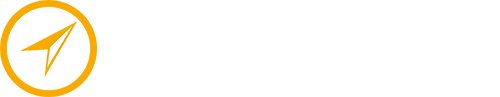
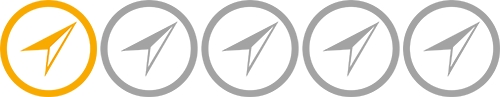
index done minus tags

Changed region(s): [[0.18, 0.0, 1.0, 1.0]]

diff --git a/frontend/src/components/QuestIndex/QuestCard.jsx b/frontend/src/components/QuestIndex/QuestCard.jsx
@@ -1,17 +1,22 @@
+import StarRating from "./StarRating"
+import './QuestIndex.css'
 
-
-export default function QuestCard({quest}){
+export default function QuestCard({quest, reviews}){
     
+    const questReviews = Object.values(reviews).filter((review)=>review.quest === quest._id)
 
     return(
-        <div classname="quest-card">
-            <img></img>
+        <div className="quest-card">
+            <img className="quest-start-image" src={quest.imageUrls? quest.imageUrls[0] : ""} />
             <div className="quest-info">
-                <h1 className="quest-title"></h1>
-                <img src={`../../../../public/assets/stars/${starRating}`} alt="" />
+                <h1 className="quest-title">{quest.title}</h1>
+                <label><p>rating:</p>
+                <StarRating questId={quest._id} questReviews={questReviews}/>
+                </label>
+                <label><p>tags:</p>
+                <p>tags go here</p>
+                </label>
             </div>
         </div>
     )
-    
-
 }

diff --git a/frontend/src/components/QuestIndex/QuestIndex.jsx b/frontend/src/components/QuestIndex/QuestIndex.jsx
@@ -1,0 +1,24 @@
+import { useSelector } from "react-redux";
+import { useDispatch } from "react-redux";
+import { useEffect } from "react";
+import { getAllQuests } from "../../store/quests";
+import QuestCard from "./QuestCard";
+import './QuestIndex.css'
+import { Link } from "react-router-dom";
+import { getAllReviews } from "../../store/reviews";
+
+
+export default function QuestIndex(){
+    const dispatch= useDispatch()
+    useEffect(()=>{
+        dispatch(getAllQuests())
+        dispatch(getAllReviews())
+    },[])
+    const quests = useSelector(state=>state.quests)
+    const reviews = useSelector(state=>state.reviews)
+    return(
+        <div className="card-column">
+            {Object.values(quests)?.map((quest, i)=><Link key={i} to={`/quests/${quest._id}`}><QuestCard quest={quest} reviews={reviews}/></Link>)}
+        </div>
+    )
+}

diff --git a/frontend/src/components/HomePage/index.js b/frontend/src/components/HomePage/index.js
@@ -1,17 +1,19 @@
 import React from 'react';
 import "./HomePage.css"
 import QuestMap from '../Map';
+import QuestIndex from '../QuestIndex/QuestIndex';
+import { useSelector } from 'react-redux';
 
 const HomePage = () => {
+  const mapstyle={ height: 'calc(100vh - 80px)', width: '100%' }
+  const quests = useSelector(state=>state.quests)
     return (
-      <>
-      <div className="homepage-left">
-        <QuestMap />
+      <div className="home-flex">
+        <div className="homepage-left">
+          <QuestMap quests={quests} style={mapstyle}/>
+        </div>
+          <QuestIndex />
       </div>
-      <div className="homepage-right">
-        <h1>This is where the quest list will go</h1>
-      </div>
-      </>
     );
   }
   

diff --git a/frontend/src/components/QuestIndex/QuestIndex.css b/frontend/src/components/QuestIndex/QuestIndex.css
@@ -1,0 +1,35 @@
+img.star-rating{
+    height: 20px;
+    margin: 5px 0px;
+}
+div.quest-card{
+    padding: 20px;
+    background-color: white;
+    border-radius: 7px;
+    width: 85%;
+    margin: 20px;
+    display: flex;
+    justify-content: flex-start;
+    align-items: flex-start;
+}
+.home-flex{
+    background-color: var(--offwhite);
+}
+h1.quest-title{
+    font-size: 27px;
+    font-weight: bold;
+    margin-top: 0;
+    margin-bottom: 10px;
+}
+.card-column{
+    width: 50%;
+    height: calc(100vh - 80px);
+    overflow-y: scroll;
+}
+.quest-start-image{
+    width: 100px;
+    height: 100px;
+    object-fit: cover;
+    border-radius: 10px;
+    margin-right: 20px;
+}

diff --git a/frontend/src/components/QuestIndex/StarRating.jsx b/frontend/src/components/QuestIndex/StarRating.jsx
@@ -1,0 +1,16 @@
+import { useSelector } from "react-redux";
+import { useDispatch } from "react-redux";
+import { useEffect } from "react";
+import { getQuestReviews } from "../../store/quests";
+import './QuestIndex.css'
+
+export default function StarRating({questReviews}){
+
+    let ratingtotal = 0
+    questReviews.forEach((review)=>(ratingtotal += review.rating))
+    const stars = Math.floor(ratingtotal/questReviews.length)
+
+    return(
+        <img className="star-rating"src={`./../../../assets/stars/${stars}.png`} alt={`${stars} star rating`} />
+    )
+}

diff --git a/frontend/src/components/Map/index.js b/frontend/src/components/Map/index.js
@@ -17,7 +17,7 @@ const QuestMap = ({ quests }) => {
   
     return (
     // Important! Always set the container height explicitly
-    <div className="map" style={{ height: '100vh', width: '50%' }}>
+    <div className="map" style={{ height: 'calc(100vh - 80px)', width: '100%' }}>
         <GoogleMapReact
         bootstrapURLKeys={{ key: process.env.REACT_APP_MAPS_API_KEY }}
         defaultCenter={defaultProps.center}

diff --git a/frontend/src/store/quests.js b/frontend/src/store/quests.js
@@ -36,7 +36,7 @@ export const getAllQuests = () => async dispatch => {
     const data = await res.json();
     const quests = {}
     data.forEach ((e) => {
-        quests[e].id = e
+        quests[e._id] = e
     });
     return dispatch(receiveAllQuests(quests));
 };

diff --git a/frontend/src/components/Modals/LoginSignup.css b/frontend/src/components/Modals/LoginSignup.css
@@ -54,7 +54,7 @@ div.page-overlay{
     margin: 10px;
 }
 .option-image:hover{
-    box-shadow: inset 0px 0px 20px rgba(0,0,0,0.5);
+    box-shadow: 0px 0px 20px rgba(255, 255, 255, 0.5);
     cursor: pointer;
 }
 .dropdown-options{

diff --git a/frontend/src/components/NavBar/NavBar.css b/frontend/src/components/NavBar/NavBar.css
@@ -41,7 +41,7 @@ nav {
     font-weight: var(--font-weight-semibold);
     margin-right: 12px;
     cursor: pointer;
-    height: 40px;
+    height: 35px;
     width: 100px;
     align-items: center;
     vertical-align: middle;

diff --git a/frontend/src/components/HomePage/HomePage.css b/frontend/src/components/HomePage/HomePage.css
@@ -1,0 +1,7 @@
+.home-flex{
+    display: flex;
+    flex-direction: row;
+}
+.homepage-left{
+    width:50%
+}
